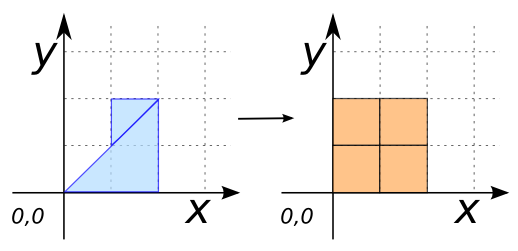
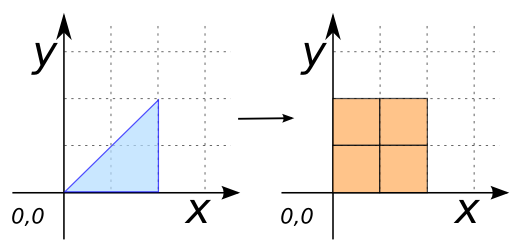
Add image for ST_MakeGrid

Changed region(s): [[0.1853, 0.3904, 0.3089, 0.5857]]

diff --git a/docs/dev/ST_MakeGrid.md b/docs/dev/ST_MakeGrid.md
@@ -36,7 +36,11 @@ SELECT * FROM grid;
 -- | POLYGON((1 0, 2 0, 2 1, 1 1, 1 0)) |   1 |      2 |      1 |
 -- | POLYGON((0 1, 1 1, 1 2, 0 2, 0 1)) |   2 |      1 |      2 |
 -- | POLYGON((1 1, 2 1, 2 2, 1 2, 1 1)) |   3 |      2 |      2 |
+{% endhighlight %}
 
+<img class="displayed" src="../ST_MakeGrid_1.png"/>
+
+{% highlight mysql %}
 CREATE TABLE input_table(the_geom Geometry);
 INSERT INTO input_table VALUES('POLYGON((0 0, 2 0, 2 2, 0 0))');
 CREATE TABLE grid AS SELECT * FROM ST_MakeGrid('input_table', 1, 1);
@@ -64,7 +68,7 @@ SELECT * FROM grid;
 -- | POLYGON((1 1, 2 1, 2 2, 1 2, 1 1)) |   3 |      2 |      2 |
 {% endhighlight %}
 
-<img class="displayed" src="../ST_MakeGrid_1.png"/>
+<img class="displayed" src="../ST_MakeGrid_2.png"/>
 
 ##### See also
 
